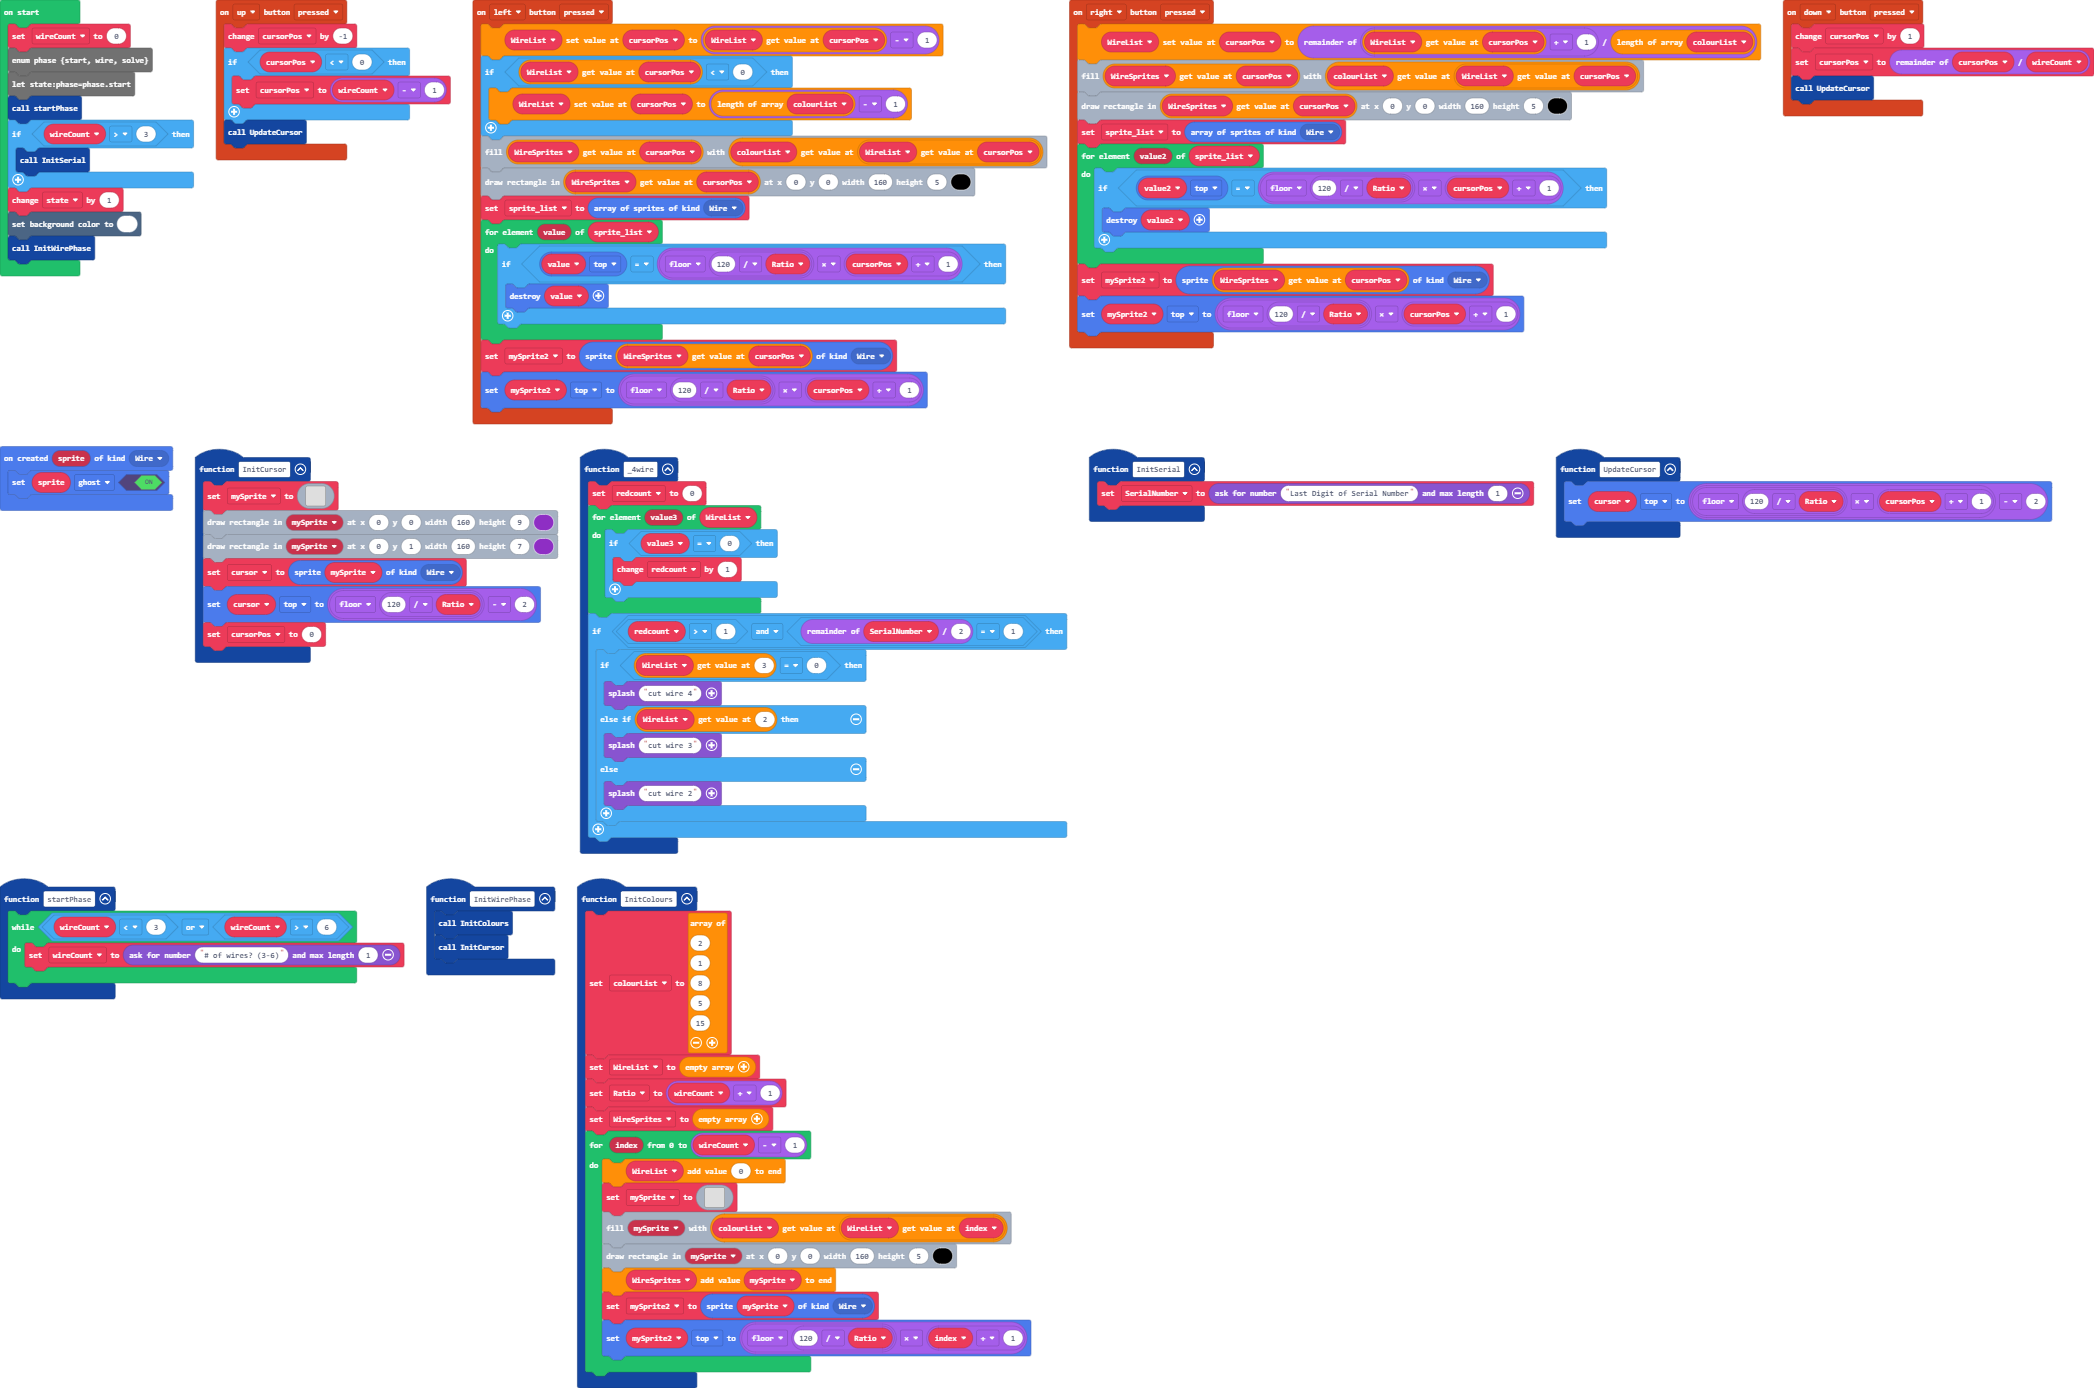
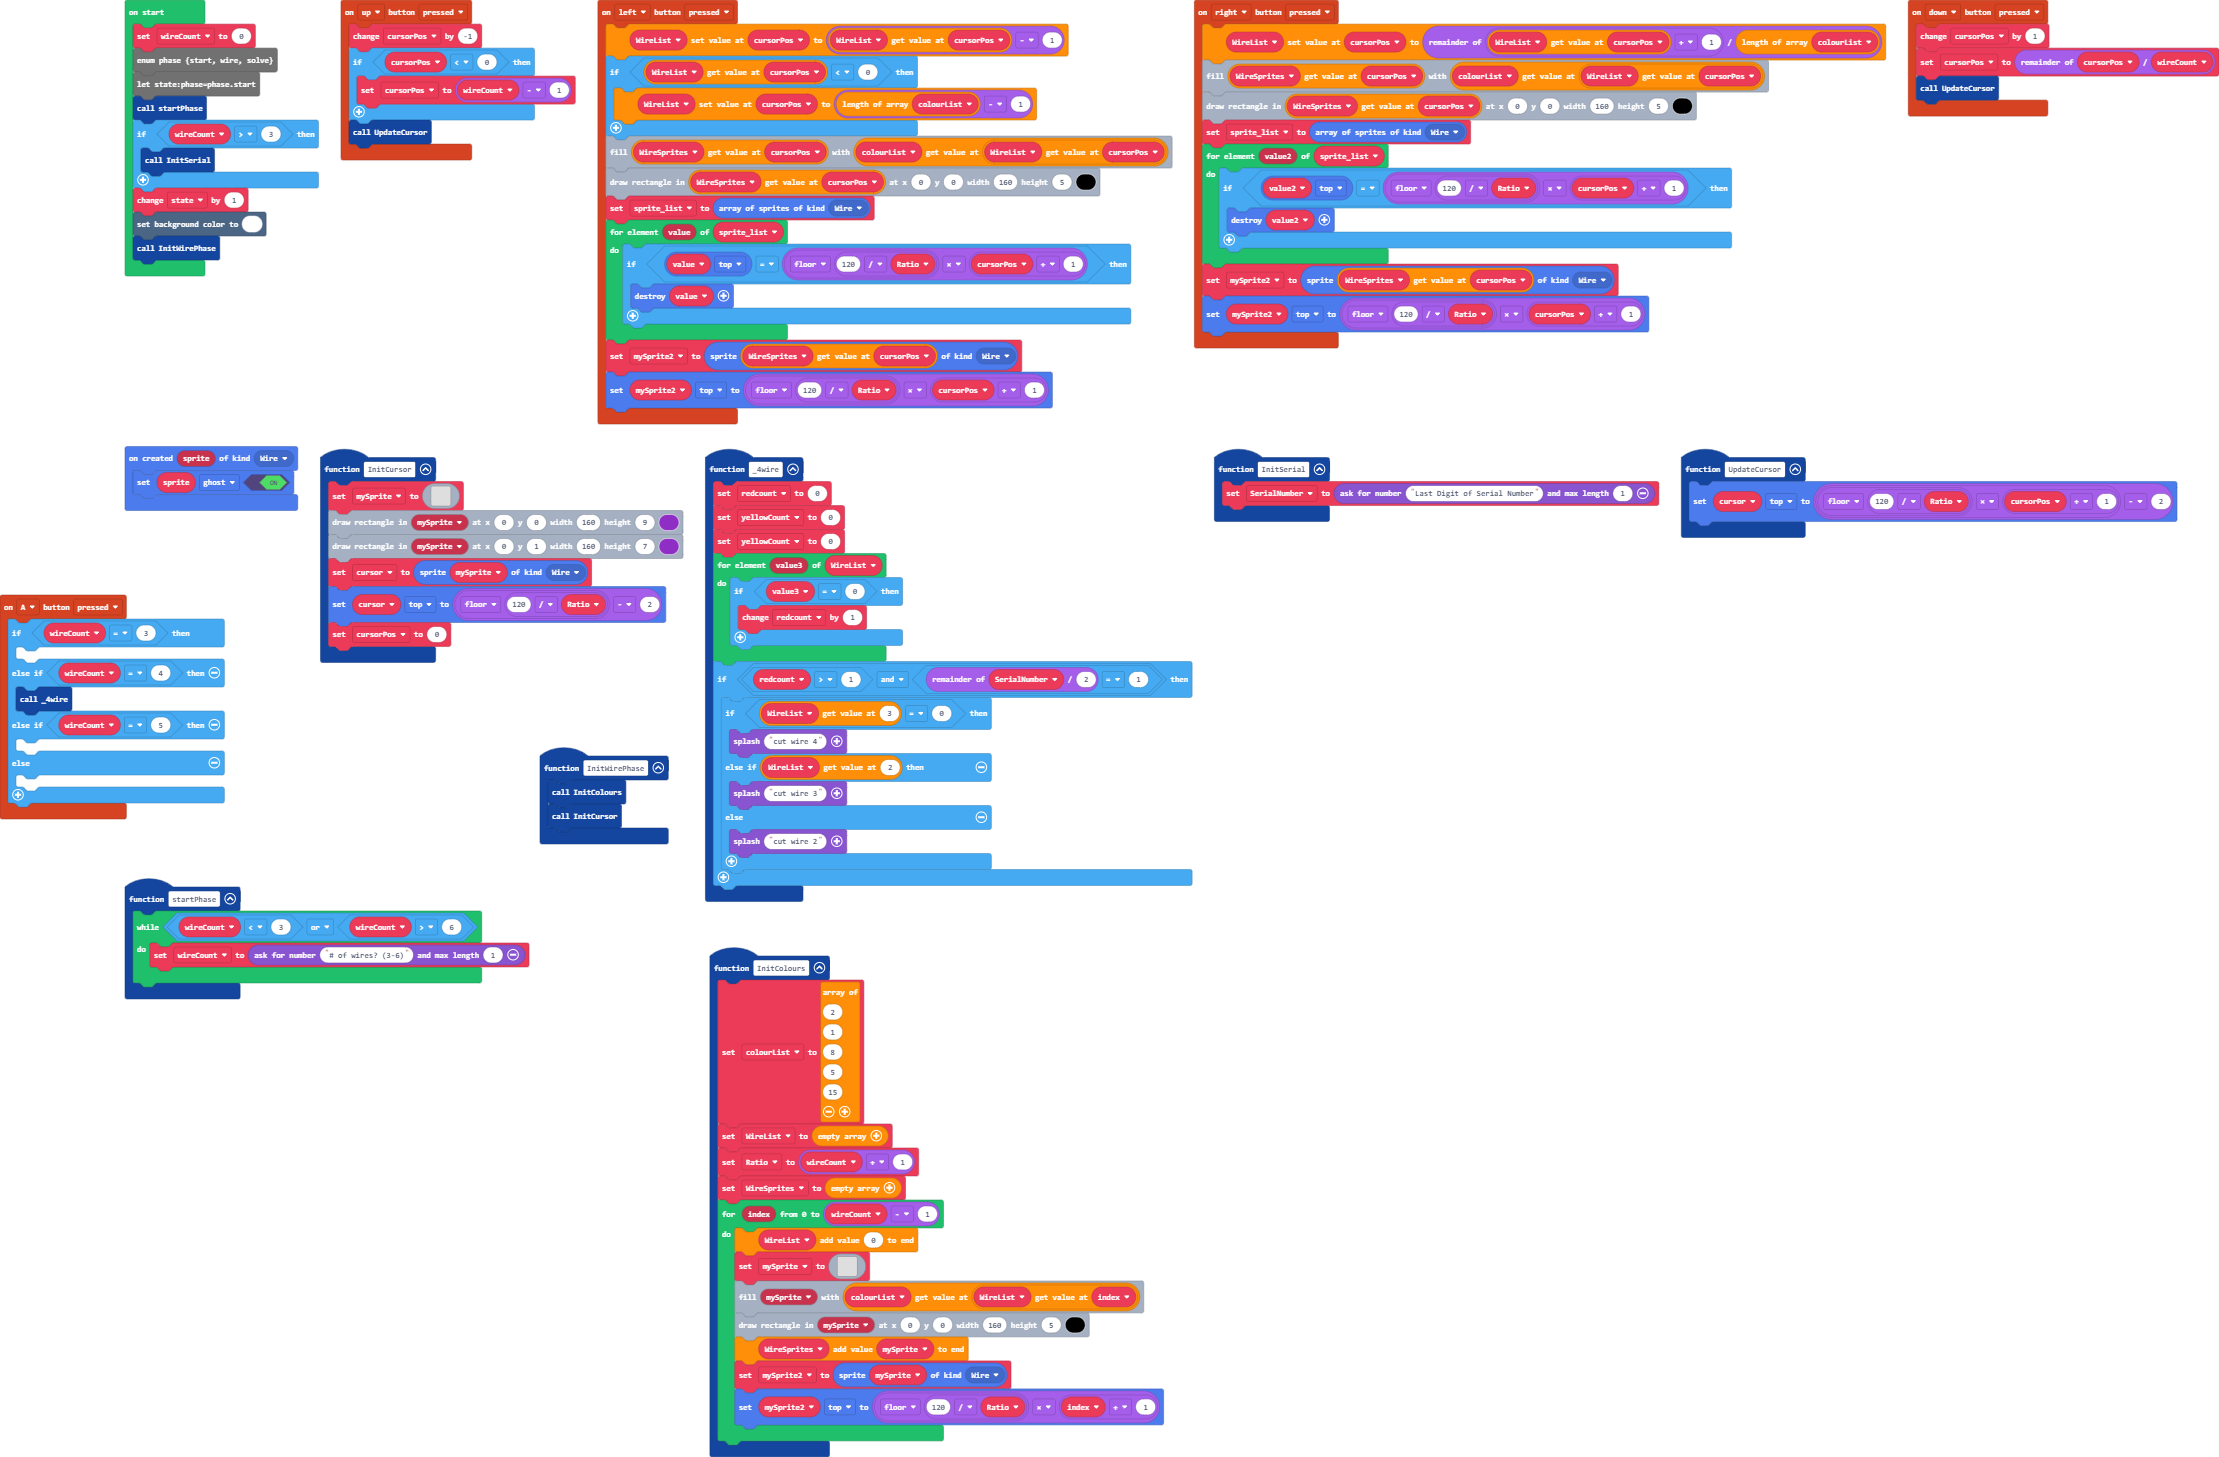
Update main.blocks, main.ts

diff --git a/main.ts b/main.ts
@@ -16,6 +16,17 @@ function startPhase () {
         wireCount = game.askForNumber("# of wires? (3-6)", 1)
     }
 }
+controller.A.onEvent(ControllerButtonEvent.Pressed, function () {
+    if (wireCount == 3) {
+    	
+    } else if (wireCount == 4) {
+        _4wire()
+    } else if (wireCount == 5) {
+    	
+    } else {
+    	
+    }
+})
 function InitSerial () {
     SerialNumber = game.askForNumber("Last Digit of Serial Number", 1)
 }
@@ -107,6 +118,8 @@ controller.down.onEvent(ControllerButtonEvent.Pressed, function () {
 })
 function _4wire () {
     redcount = 0
+    yellowCount = 0
+    yellowCount = 0
     for (let value3 of WireList) {
         if (value3 == 0) {
             redcount += 1
@@ -122,6 +135,7 @@ function _4wire () {
         }
     }
 }
+let yellowCount = 0
 let redcount = 0
 let mySprite: Image = null
 let mySprite2: Sprite = null
